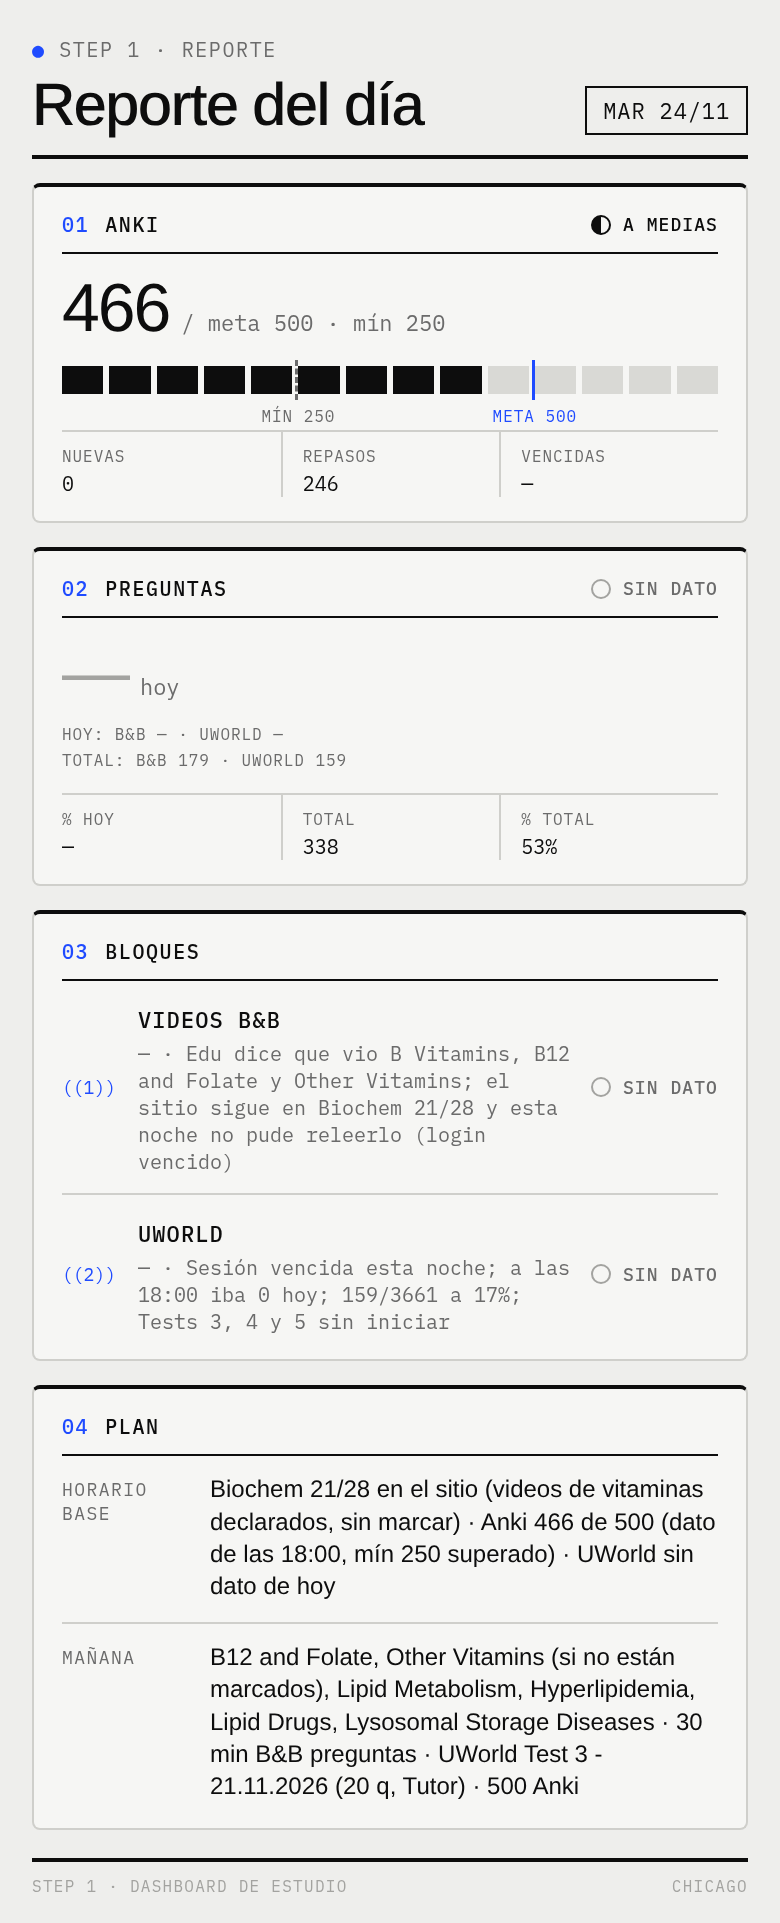
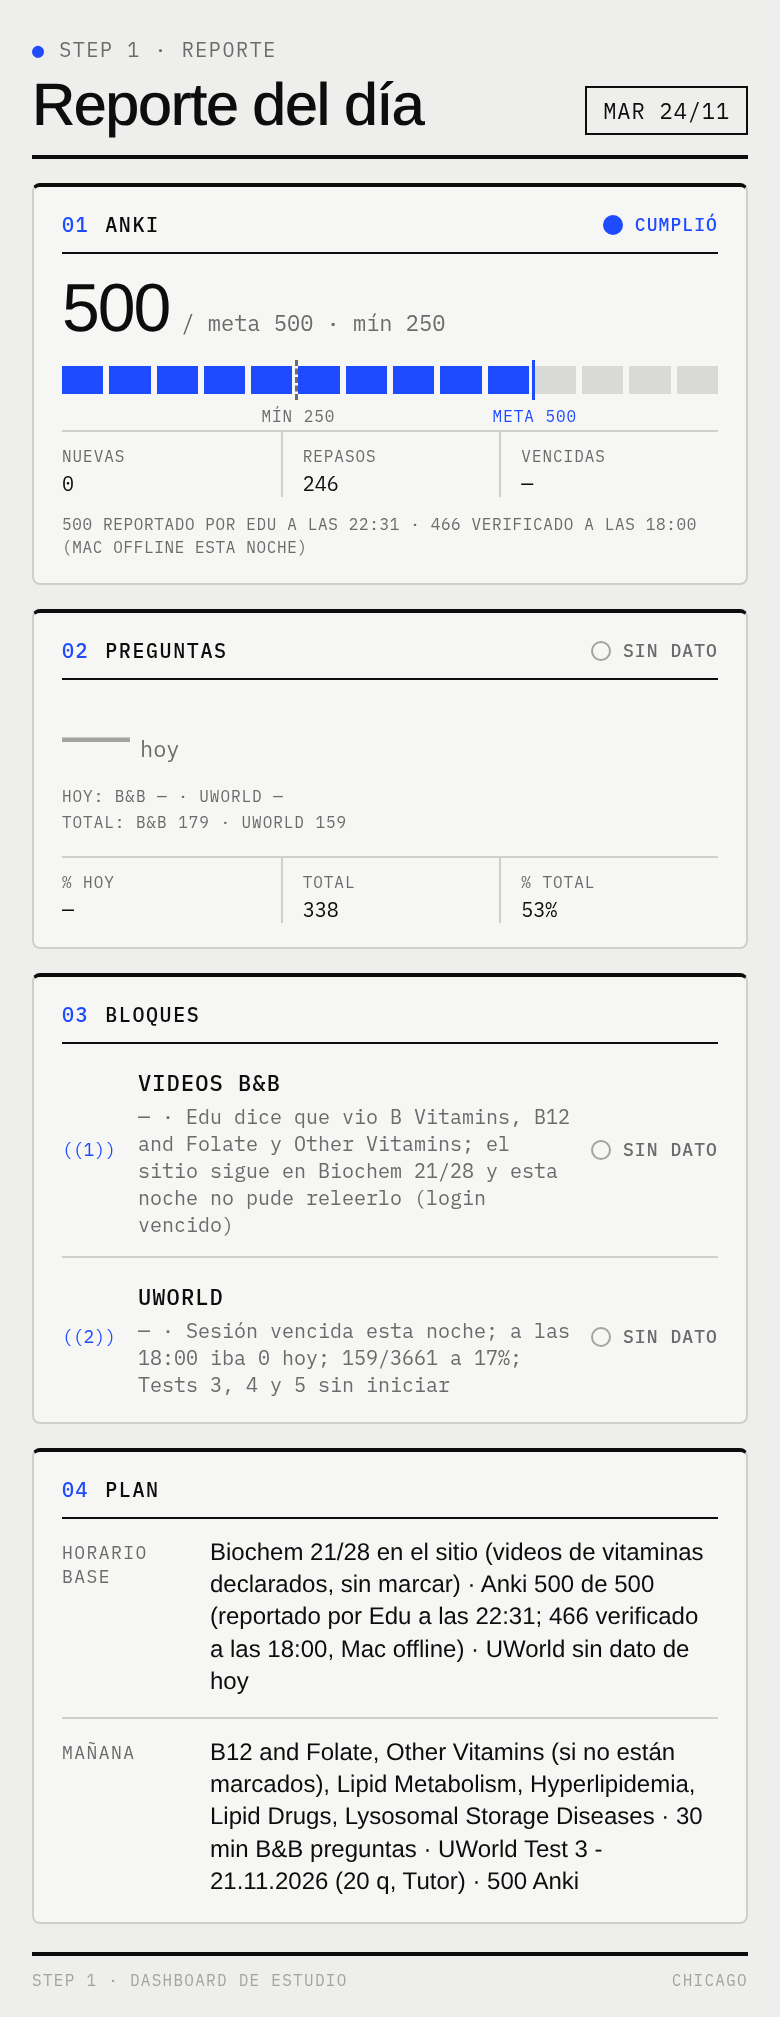
Reporte 2026-11-24: Anki 500 (reportado por Edu)

diff --git a/index.html b/index.html
@@ -5,7 +5,7 @@
   index_backup_pre_cards_2026-11-17.html (versión teenage engineering).
   Estilo: capa "teenage engineering" al final del <style> (paneles con borde, numeración 00–10, marcadores ((n))).
   Regla: en pantalla NO se muestran notas de fuente/procedencia; solo el timestamp de #upd.
-  Fuentes (solo para mantenimiento): Anki = Mac "Eduardos MacBook Air" conectado; AnkiConnect v6 a las 24/11 18:00 (una sola llamada multi). reviews=466, unique=246, new=0, review_cards=246 (rated:1 -is:new), introduced=121, rated:1:1=31, again presses=37 (stats HTML: "Studied 466 cards in 117.53 minutes today (15.13s/card). Again count: 37 (92.1% correct). Learn: 323, Review: 125, Relearn: 18, Filtered: 0."). is:due=355 (AnKing 232, Eduche 123). getDeckStats: AnKing new 50 / learn 3 / review 229; Eduche new 0 / learn 0 / review 123 (total_in_deck 0, no usado; vencidas de is:due). ANKI_HOY reviews=466, again=37, again_cards=31, again_pct=8. H["2026-11-22"]=274, H["2026-11-23"]=196, H["2026-11-24"]=466 (conteo AnkiConnect 24/11 18:00).
+  Fuentes (solo para mantenimiento): Anki = Mac "Eduardos MacBook Air" conectado; AnkiConnect v6 a las 24/11 18:00 (una sola llamada multi). reviews=466, unique=246, new=0, review_cards=246 (rated:1 -is:new), introduced=121, rated:1:1=31, again presses=37 (stats HTML: "Studied 466 cards in 117.53 minutes today (15.13s/card). Again count: 37 (92.1% correct). Learn: 323, Review: 125, Relearn: 18, Filtered: 0."). is:due=355 (AnKing 232, Eduche 123). getDeckStats: AnKing new 50 / learn 3 / review 229; Eduche new 0 / learn 0 / review 123 (total_in_deck 0, no usado; vencidas de is:due). ANKI_HOY reviews=466, again=37, again_cards=31, again_pct=8 (conteo AnkiConnect 24/11 18:00). H["2026-11-22"]=274, H["2026-11-23"]=196, H["2026-11-24"]=500 (500 reportado por Edu 24/11 22:31; 466 verificado a las 18:00, Mac offline esta noche).
   B&B = no se pudo releer a las 24/11 18:00: https://www.boardsbeyond.com/dashboard redirigió a https://www.boardsbeyond.com/login. Cifras en pantalla = última lectura verificada 23/11 22:30 (reconfirmada 24/11 07:13): 174 de 3701, quiz 84.0%, Step 1-P 7%. Biochem 21/28, 141/140 a 87% (Quizzes 87.2%), siguiente B12 and Folate. Quizzes del 23/11: Phenylalanine and Tyrosine 3/5, Other Amino Acids 4/5 (más un 0/5 abierto sin responder, no tocado), Ammonia 3/5 luego 5/5, B Vitamins 5/5. Día 23/11: 25 respondidas, 20 correctas. TODAY_Q.bb = null (no se leyó el historial a las 24/11 18:00).
   UWorld = lectura 24/11 18:00 (Launch STEP 1 QBank solamente): QBank 159/3661, Question Score 17%, Test Count 2/6. Ronda actual: único completado #2 19/11 10/20 (50%). Sin iniciar: Test 3 (20 q), Test 4 (20 q), Test 5 - 23.11.2026 (19 q) y Test Semanal 1 (40 q). 0 preguntas contestadas el 24/11. TODAY_Q.uw = 0. UWSA 1–3 sin activar.
   Plan/horario: martes 24/11 = 7h17 (Anki 500, videos B&B 2h17 para cerrar Biochem: B12 & Folate, Other Vitamins, Lipid Metabolism, Hyperlipidemia, Lipid Drugs, Lysosomal Storage; si B Vitamins no está marcada, esa primero; 30 min preguntas B&B; 1h UWorld Test 3 de 20 q Tutor). Biochem en pantalla 21/28 según lectura 23/11 22:30 (no reconfirmado a las 24/11 18:00; login vencido).
@@ -339,7 +339,7 @@ details summary .lbl{margin-left:auto}
   <div><div class="brand"><span><i>●</i> step&nbsp;1</span><span>usmle</span><span>rev. 2026</span></div><h1>Inicio</h1></div>
   <div class="top-meta">
     <button type="button" id="refresh" aria-label="Refresh">↻ REFRESH</button>
-    <span id="upd">Actualizado 24/11 22:35</span>
+    <span id="upd">Actualizado 24/11 22:37</span>
   </div>
 </header>
 
@@ -350,7 +350,7 @@ details summary .lbl{margin-left:auto}
 <!-- ANKI HOY: anillo (data-done / data-goal) -->
 <section class="card ringwrap" id="s-anki">
   <h2 style="align-self:stretch"><span><em class="no">00</em>Anki hoy</span> <i>●</i></h2>
-  <div id="ring" data-done="466" data-goal="500"></div>
+  <div id="ring" data-done="500" data-goal="500"></div>
   <span class="badge" id="ringbadge"></span>
   <div class="kvs">
     <div class="kv"><span>Distintas</span><b>246</b></div>
@@ -578,7 +578,7 @@ function draw(){document.getElementById("seg").innerHTML=F.map(x=>`<button class
 /* fechas límite (cuenta regresiva en días, calculada) */
 const D={examen:"2027-04-30",uworld:"2027-04-29"};
 
-const H={"2026-10-31":44,"2026-11-02":73,"2026-11-03":87,"2026-11-04":4,"2026-11-05":229,"2026-11-07":226,"2026-11-10":205,"2026-11-11":310,"2026-11-12":346,"2026-11-13":303,"2026-11-14":552,"2026-11-15":239,"2026-11-16":430,"2026-11-17":635,"2026-11-18":624,"2026-11-19":172,"2026-11-20":0,"2026-11-21":837,"2026-11-22":274,"2026-11-23":196,"2026-11-24":466};
+const H={"2026-10-31":44,"2026-11-02":73,"2026-11-03":87,"2026-11-04":4,"2026-11-05":229,"2026-11-07":226,"2026-11-10":205,"2026-11-11":310,"2026-11-12":346,"2026-11-13":303,"2026-11-14":552,"2026-11-15":239,"2026-11-16":430,"2026-11-17":635,"2026-11-18":624,"2026-11-19":172,"2026-11-20":0,"2026-11-21":837,"2026-11-22":274,"2026-11-23":196,"2026-11-24":500}; /* 500 reportado por Edu 22:31; 466 verificado 18:00 (Mac offline) */
 const key=d=>d.getFullYear()+"-"+String(d.getMonth()+1).padStart(2,"0")+"-"+String(d.getDate()).padStart(2,"0");
 
 /* histograma de cuadritos: 1 cuadrito = 50 respuestas; líneas META 500 y MÍNIMO 250 */
@@ -683,7 +683,7 @@ ${b.nota?`<p class="note">${b.nota}</p>`:""}`})();
 const REPORTS={
   "2026-11-24":{
   fecha:"mar 24/11",
-  anki:{hechas:466, meta:500, min:250, nuevas:0, repasos:246, vencidas:null, estado:"medio"},
+  anki:{hechas:500, meta:500, min:250, nuevas:0, repasos:246, vencidas:null, estado:"ok", nota:"500 reportado por Edu a las 22:31 · 466 verificado a las 18:00 (Mac offline esta noche)"},
   preg:{hoy:null, pct_hoy:null, total:null, pct_total:null,
         bb:{hoy:null, pct_hoy:null, total:179, pct_total:84.3},
         uw:{hoy:null, pct_hoy:null, total:159, pct_total:17},
@@ -692,7 +692,7 @@ const REPORTS={
     {n:"Videos B&B", valor:null, detalle:"Edu dice que vio B Vitamins, B12 and Folate y Other Vitamins; el sitio sigue en Biochem 21/28 y esta noche no pude releerlo (login vencido)", estado:"sd"},
     {n:"UWorld",     valor:null, detalle:"Sesión vencida esta noche; a las 18:00 iba 0 hoy; 159/3661 a 17%; Tests 3, 4 y 5 sin iniciar", estado:"sd"}
   ],
-  base:"Biochem 21/28 en el sitio (videos de vitaminas declarados, sin marcar) · Anki 466 de 500 (dato de las 18:00, mín 250 superado) · UWorld sin dato de hoy",
+  base:"Biochem 21/28 en el sitio (videos de vitaminas declarados, sin marcar) · Anki 500 de 500 (reportado por Edu a las 22:31; 466 verificado a las 18:00, Mac offline) · UWorld sin dato de hoy",
   manana:"B12 and Folate, Other Vitamins (si no están marcados), Lipid Metabolism, Hyperlipidemia, Lipid Drugs, Lysosomal Storage Diseases · 30 min B&B preguntas · UWorld Test 3 - 21.11.2026 (20 q, Tutor) · 500 Anki"
 },
   "2026-11-23":{
@@ -811,7 +811,8 @@ function repHTML(R){
  <div class="q-c"><div class="q-h"><span><em>01</em>Anki</span>${st(a.estado)}</div>
   <div class="q-big"><b>${v(a.hechas)}</b><span>/ meta ${a.meta} · mín ${a.min}</span></div>
   <div class="q-leds">${leds}<div class="q-mk m" style="left:${pos(a.min)}"><span>MÍN ${a.min}</span></div><div class="q-mk g" style="left:${pos(a.meta)}"><span>META ${a.meta}</span></div></div>
-  <div class="q-kv"><div><small>Nuevas</small>${v(a.nuevas)}</div><div><small>Repasos</small>${v(a.repasos)}</div><div><small>Vencidas</small>${v(a.vencidas)}</div></div></div>
+  <div class="q-kv"><div><small>Nuevas</small>${v(a.nuevas)}</div><div><small>Repasos</small>${v(a.repasos)}</div><div><small>Vencidas</small>${v(a.vencidas)}</div></div>
+  ${a.nota?`<div class="q-sub">${a.nota}</div>`:""}</div>
  <div class="q-c"><div class="q-h"><span><em>02</em>Preguntas</span>${st(q.estado)}</div>
   <div class="q-big"><b${v(c.hoy)==="—"?' style="color:var(--tx3)"':""}>${c.hm&&c.hoy!=null?"≥":""}${v(c.hoy)}</b><span>hoy</span></div>
   <div class="q-sub">Hoy: B&amp;B ${c.bb.hoy_min&&c.bb.hoy!=null?"≥":""}${v(c.bb.hoy)} · UWorld ${c.uw.hoy_min&&c.uw.hoy!=null?"≥":""}${v(c.uw.hoy)}<br>Total: B&amp;B ${v(c.bb.total)} · UWorld ${v(c.uw.total)}</div>
